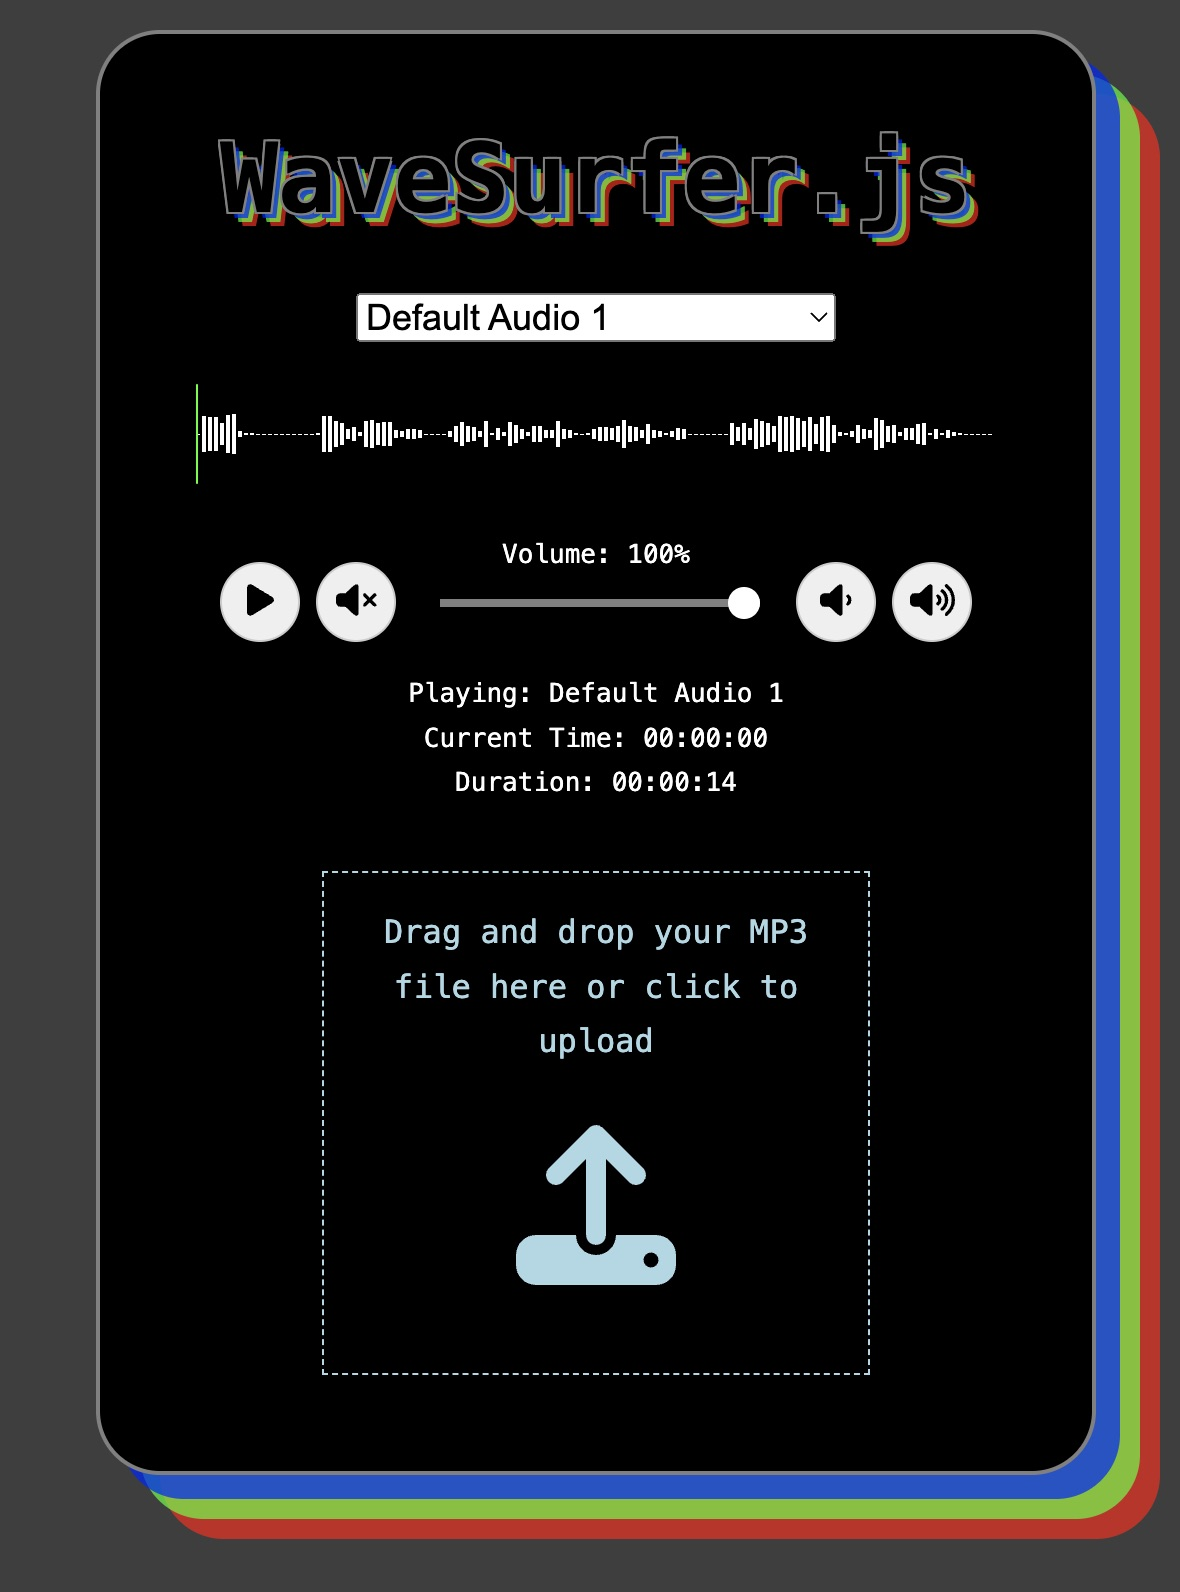
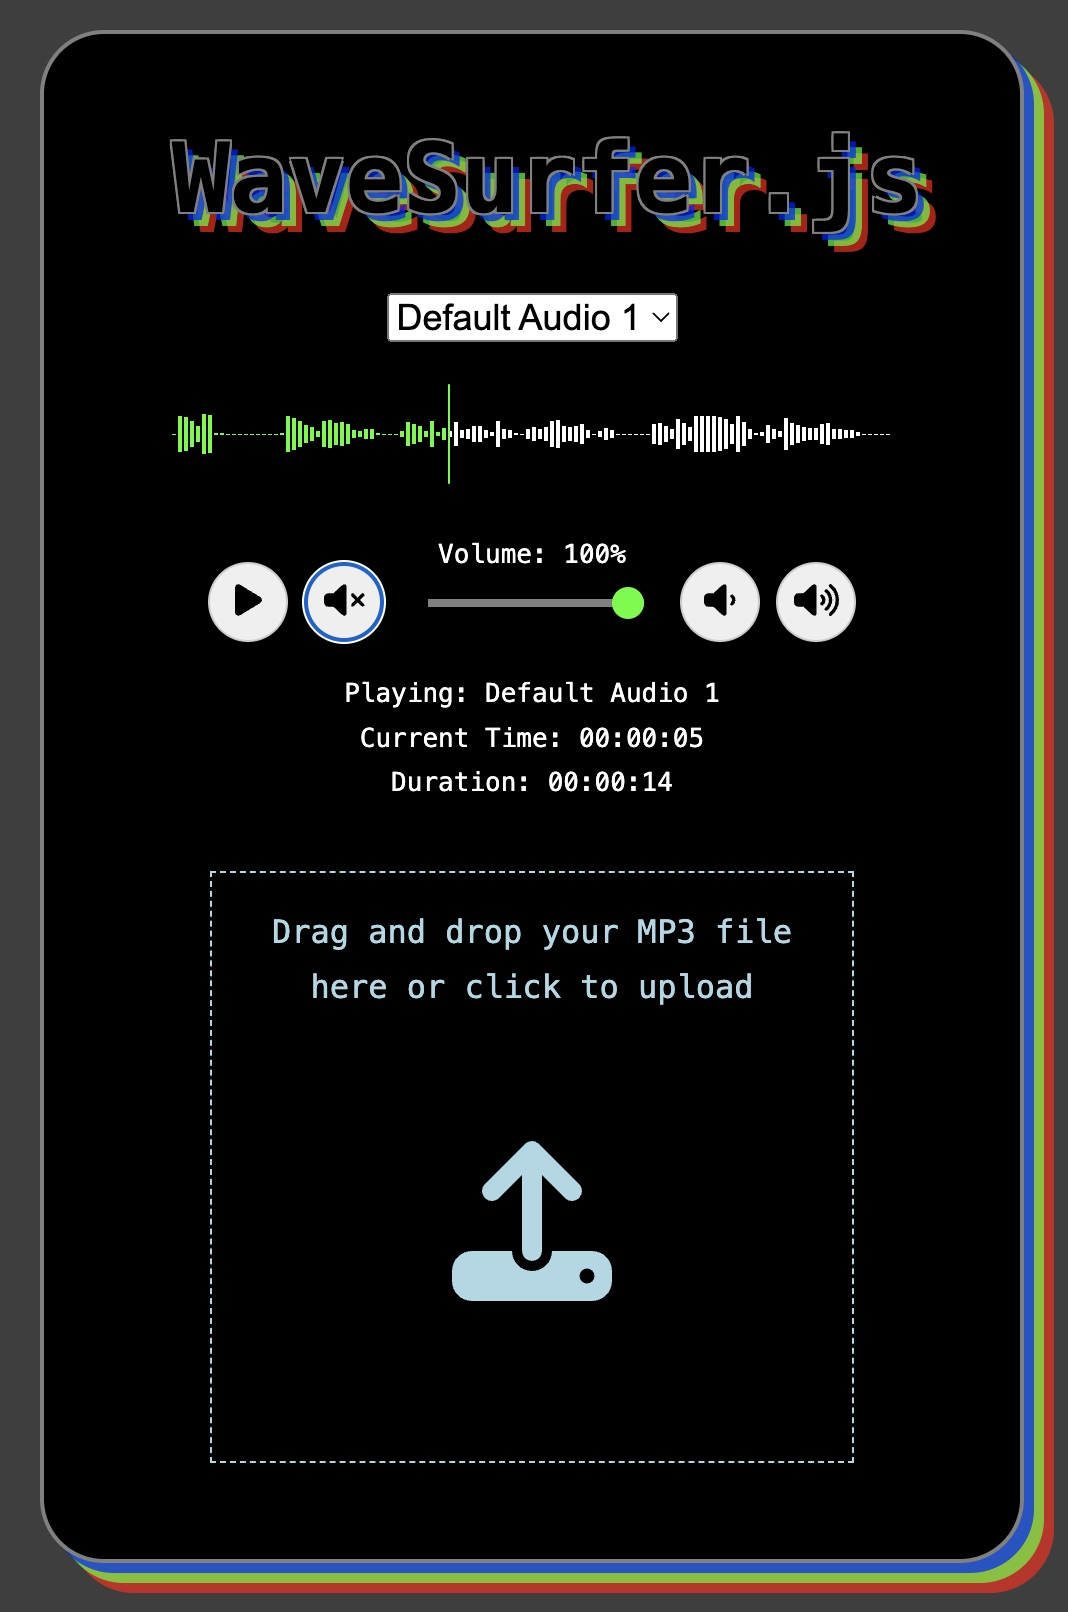
style adjustment for mobile and new readme image

diff --git a/src/App.css b/src/App.css
@@ -1,5 +1,7 @@
 #root {
-  max-width: 500px;
+  display: flex;
+  justify-content: center;
+  max-width: 400px;
   margin: 0 auto;
   padding: 0;
   text-align: center;
@@ -7,6 +9,7 @@
   color: black;
   line-height: 1.7;
   font-family: monospace, 'Courier New', Courier;
+  
 }
 
 body {
@@ -63,14 +66,13 @@ body {
   display: flex;
   justify-content: center;
   align-items: center;
-  /* border: 1px solid white; */
 }
 
 .controls button {
   width: 2.5rem;
   height: 2.5rem;
   font-size: large;
-  padding: auto;
+  padding: 0;
   margin: 0.25rem;
   border: 1px solid #ccc !important;
   border-radius: 50%;
@@ -88,13 +90,11 @@ body {
 }
 .slider-container {
   position: relative;
-
-  max-width: 30%; /* Adjust based on your design preference */
-  margin: 0 1rem; /* Optional: adds space around the slider */
+  max-width: 30%;
+  margin: 0 1rem;
   color: white;
   padding-bottom: 1.6rem;
   font-size: small;
-  /* border: 1px solid white; */
 }
 
 .slider-track {
@@ -170,6 +170,9 @@ body {
     width: 50%;
     font-size: small;
   }
+  .controls button {
+    font-size: medium;
+  }
 }
 
 @media only screen and (max-width: 480px) {
@@ -177,6 +180,6 @@ body {
     font-size: xx-large;
   }
   .dropdown-selector select {
-    font-size: small;
+    font-size: medium;
   }
 }
